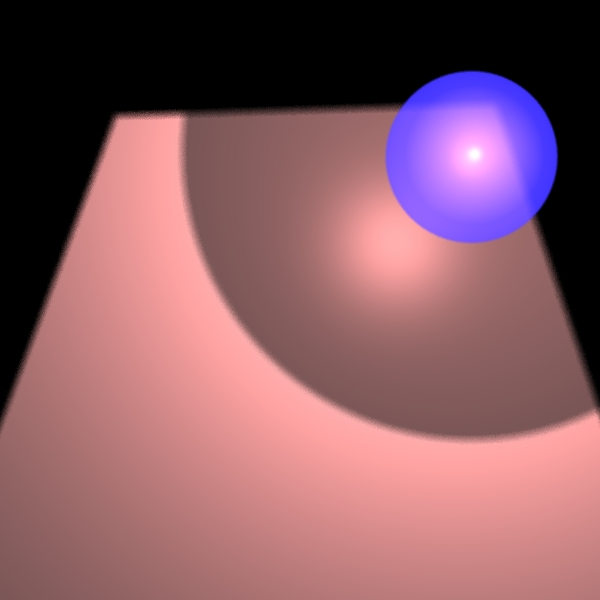
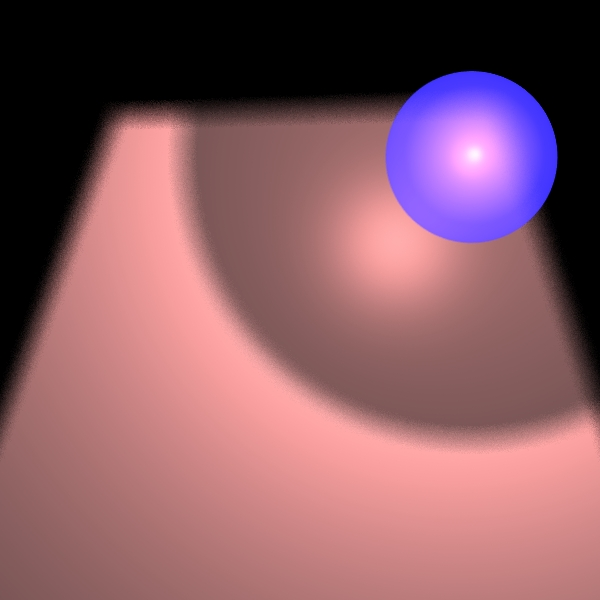
start stage 8 work

Changed region(s): [[0.0, 0.15, 1.0, 0.75]]

diff --git a/UnitTests/UnitTests/DepthOfFieldTest.java b/UnitTests/UnitTests/DepthOfFieldTest.java
@@ -21,7 +21,7 @@ public class DepthOfFieldTest {
     @Test
     public void trianglesTransparentSphere() {
         Scene scene = new Scene("Test scene");
-        scene.setCamera(new Camera(new Point3D(0, 0, -1000), new Vector(0, 0, 1), new Vector(0, -1, 0),1020,2,5,true));
+        scene.setCamera(new Camera(new Point3D(0, 0, -1000), new Vector(0, 0, 1), new Vector(0, -1, 0),1045,16,5,true));
         scene.setDistance(1000);
         scene.setBackground(Color.BLACK);
         scene.setAmbientLight(new AmbientLight(new Color(java.awt.Color.WHITE), 0.15));
